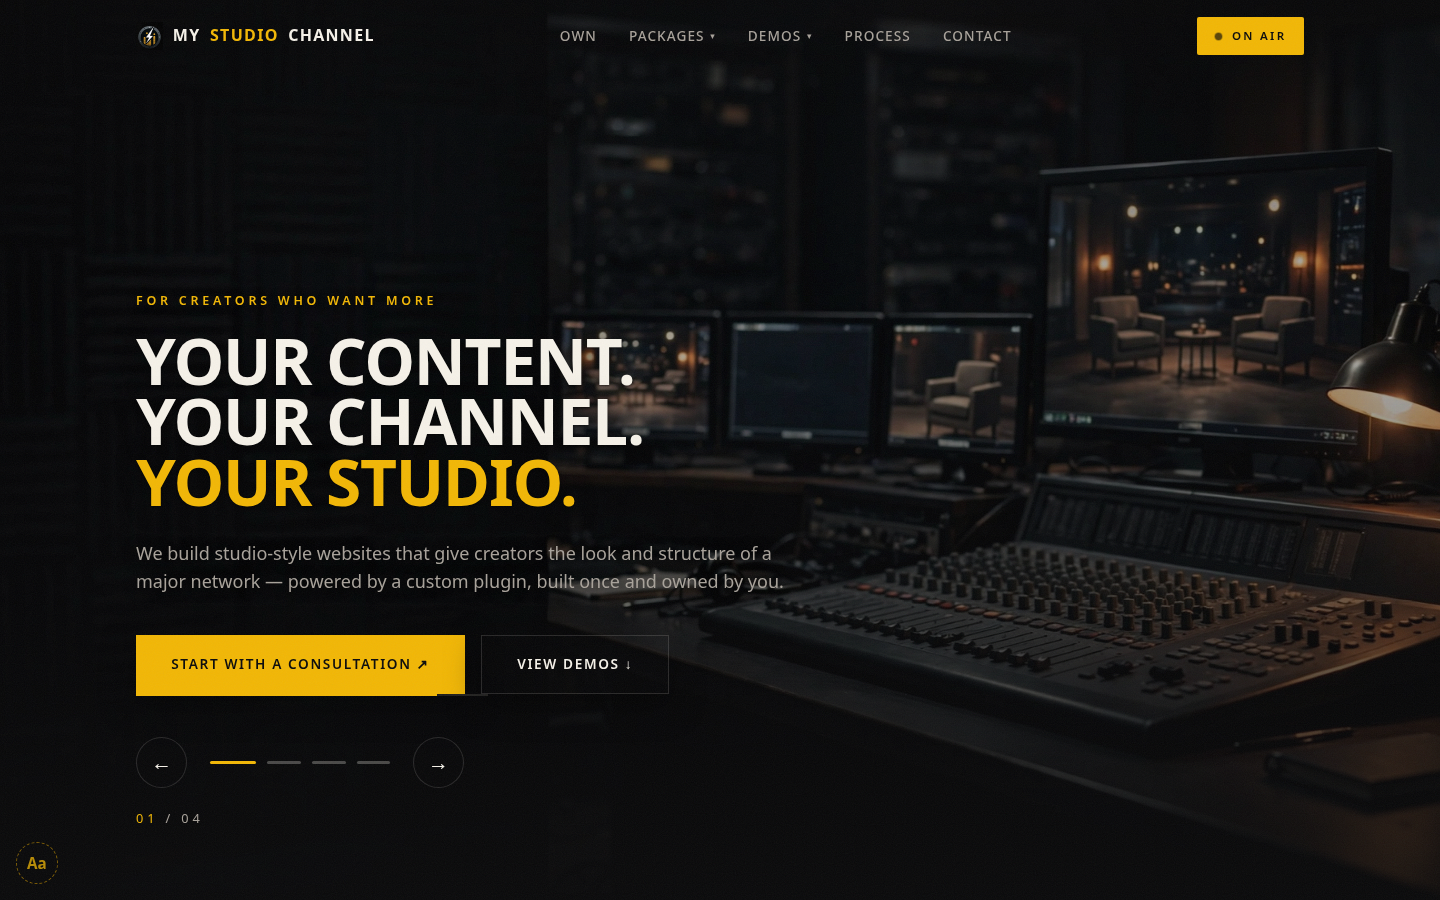
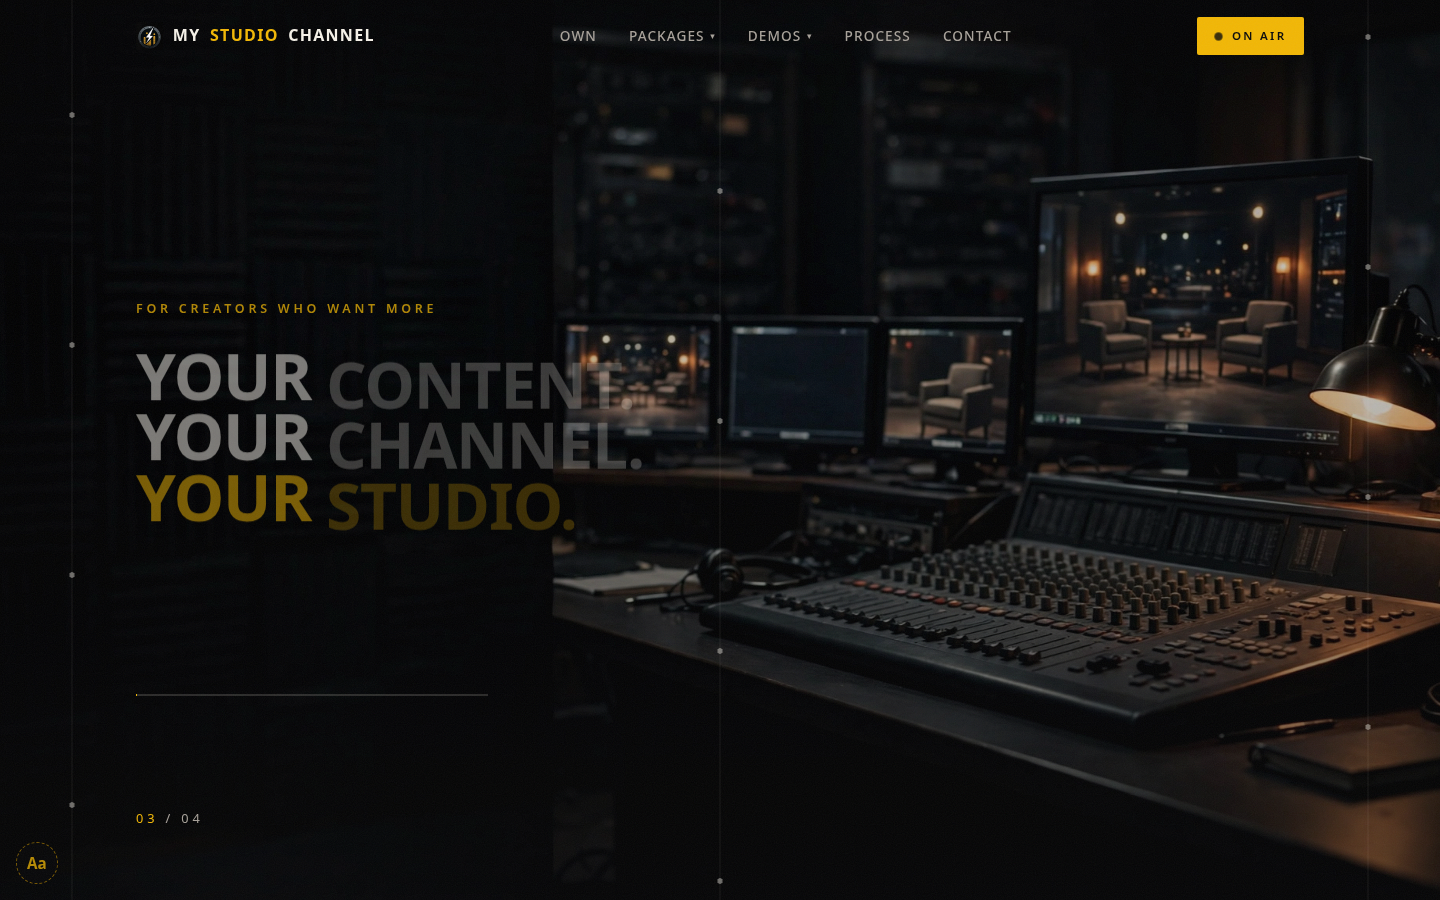
Laocoon merge: blueprint grid overlay + outlined stat band
- Full-page hairline grid overlay with dot nodes (3 verticals)
- Stats band after hero: 21+ / 24x7 / 100% / $0 in outlined cells
- Fresh hero screenshot with the new overlay

diff --git a/styles.css b/styles.css
@@ -472,3 +472,26 @@ footer{border-top:1px solid var(--line);padding:4.5rem 0 2rem}
   .goldline.aurora{animation:none}
   .lock.locked .plate-view img{transform:none;transition:none;animation:none}
 }
+
+/* —— Laocoon merge: blueprint grid overlay + outlined stat boxes —— */
+body{position:relative}
+.blueprint-grid{position:absolute;inset:0;z-index:5;pointer-events:none;overflow:hidden}
+.blueprint-grid span{position:absolute;top:0;bottom:0;width:7px;transform:translateX(-50%);
+  background:
+    radial-gradient(circle,rgba(246,242,233,.42) 2.5px,transparent 3px) center top/100% 230px repeat-y,
+    linear-gradient(rgba(246,242,233,.08),rgba(246,242,233,.08)) center/1px 100% no-repeat}
+.blueprint-grid span:nth-child(1){left:5%}
+.blueprint-grid span:nth-child(2){left:50%;background-position:center 76px,center}
+.blueprint-grid span:nth-child(3){left:95%;background-position:center 152px,center}
+.stats-band{border-top:1px solid var(--line);border-bottom:1px solid var(--line);background:rgba(246,242,233,.015)}
+.stats-grid{display:grid;grid-template-columns:repeat(4,1fr)}
+.stat-cell{padding:2.1rem 1.8rem;border-left:1px solid var(--line)}
+.stat-cell:first-child{border-left:0}
+.stat-num{display:block;font-family:var(--font-display);font-weight:600;font-size:clamp(1.9rem,3.2vw,2.6rem);color:var(--gold);line-height:1}
+.stat-label{display:block;margin-top:.7rem;font-size:.7rem;letter-spacing:.24em;text-transform:uppercase;color:rgba(246,242,233,.55)}
+@media(max-width:640px){
+  .stats-grid{grid-template-columns:1fr 1fr}
+  .stat-cell{padding:1.5rem 1.2rem}
+  .stat-cell:nth-child(odd){border-left:0}
+  .stat-cell:nth-child(n+3){border-top:1px solid var(--line)}
+}

diff --git a/index.html b/index.html
@@ -154,7 +154,17 @@
     </div>
   </section>
 
-  <!-- ② TICKER -->
+  <!-- ② STATS (Laocoon merge: outlined stat boxes) -->
+  <section class="stats-band lock" aria-label="Platform highlights">
+    <div class="wrap stats-grid">
+      <div class="stat-cell"><span class="stat-num">21+</span><span class="stat-label">Years Experience</span></div>
+      <div class="stat-cell"><span class="stat-num">24/7</span><span class="stat-label">Creator Support</span></div>
+      <div class="stat-cell"><span class="stat-num">100%</span><span class="stat-label">Platform Ownership</span></div>
+      <div class="stat-cell"><span class="stat-num">$0</span><span class="stat-label">Monthly Platform Fees</span></div>
+    </div>
+  </section>
+
+  <!-- ③ TICKER -->
   <div class="ticker" aria-hidden="true">
     <div class="ticker-track">
       <span class="ticker-seq">Built Once — Owned Forever ✦ No Monthly Platform Fees ✦ No Per-Subscriber Charges ✦ Your Content. Your Audience. Your Rules ✦&nbsp;</span>
@@ -491,6 +501,8 @@
   </div>
 </footer>
 
+<!-- blueprint grid overlay (Laocoon merge) -->
+<div class="blueprint-grid" aria-hidden="true"><span></span><span></span><span></span></div>
 <button class="to-top" id="toTop" aria-label="Back to top">↑</button>
 
 <div class="lightbox" id="demoLightbox" role="dialog" aria-modal="true" aria-labelledby="lbTitle" hidden>
